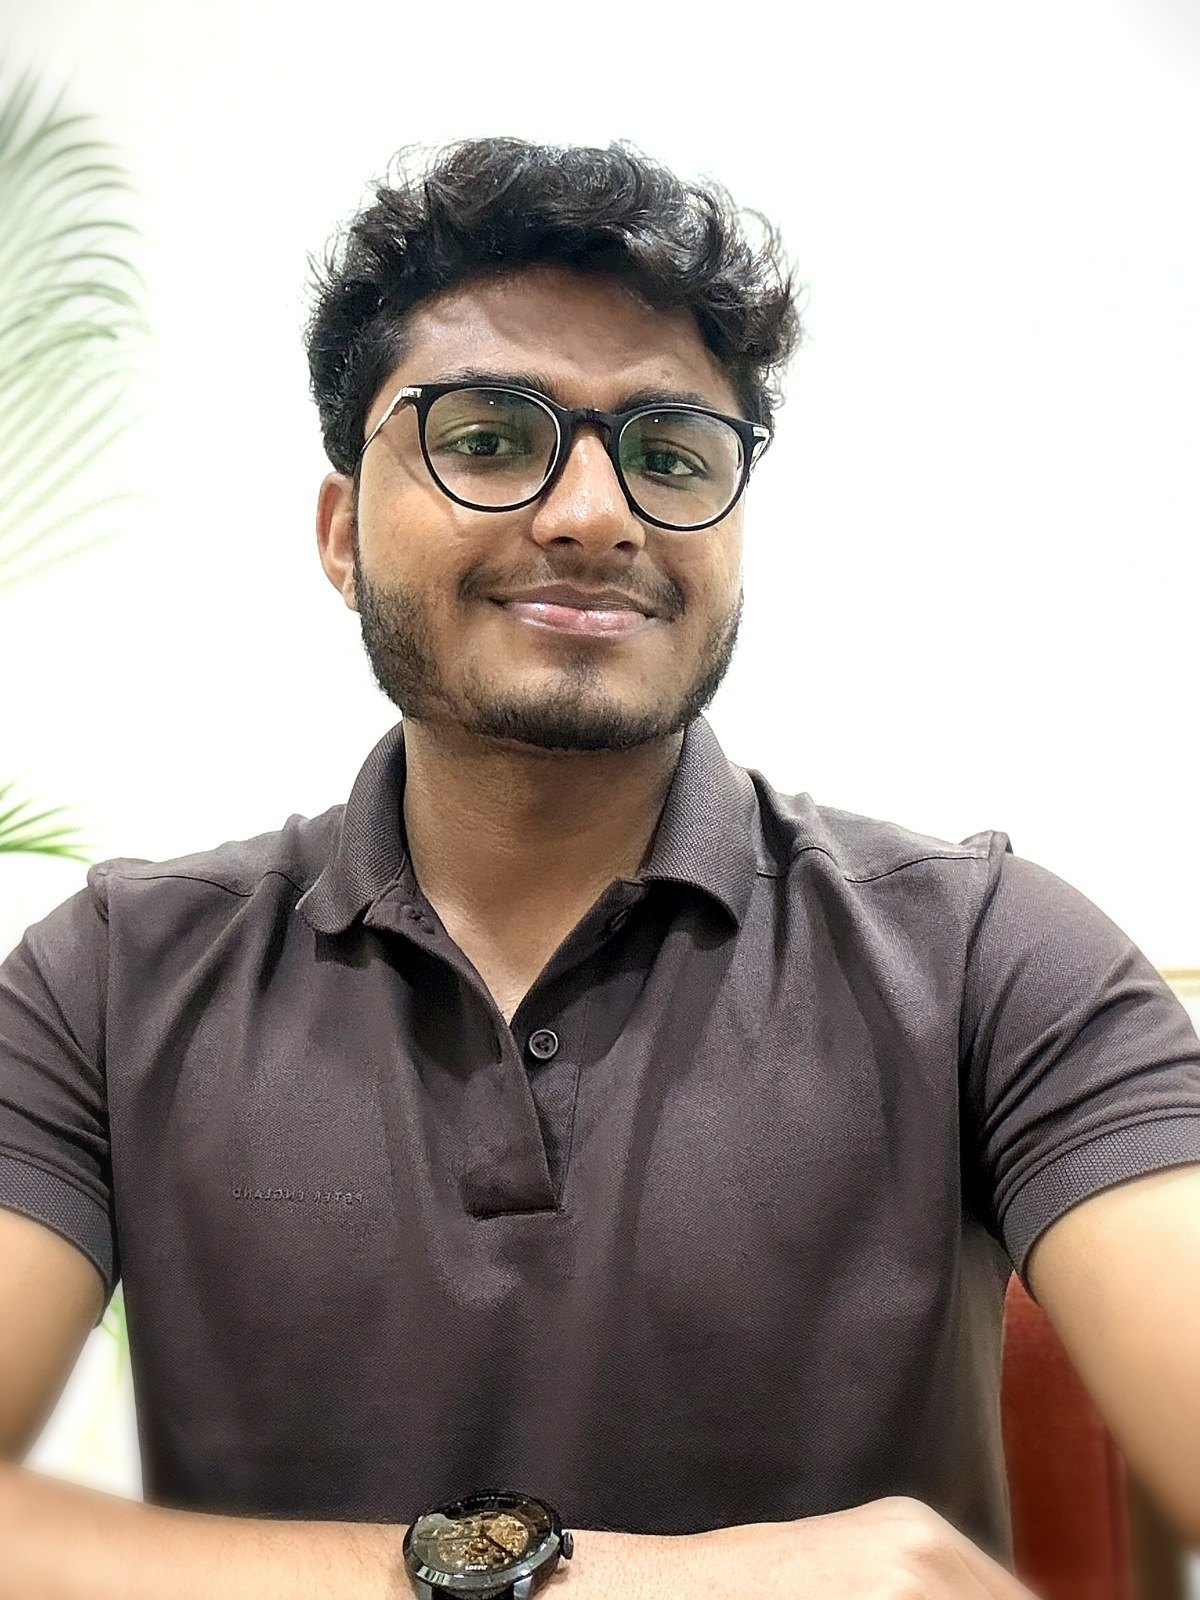
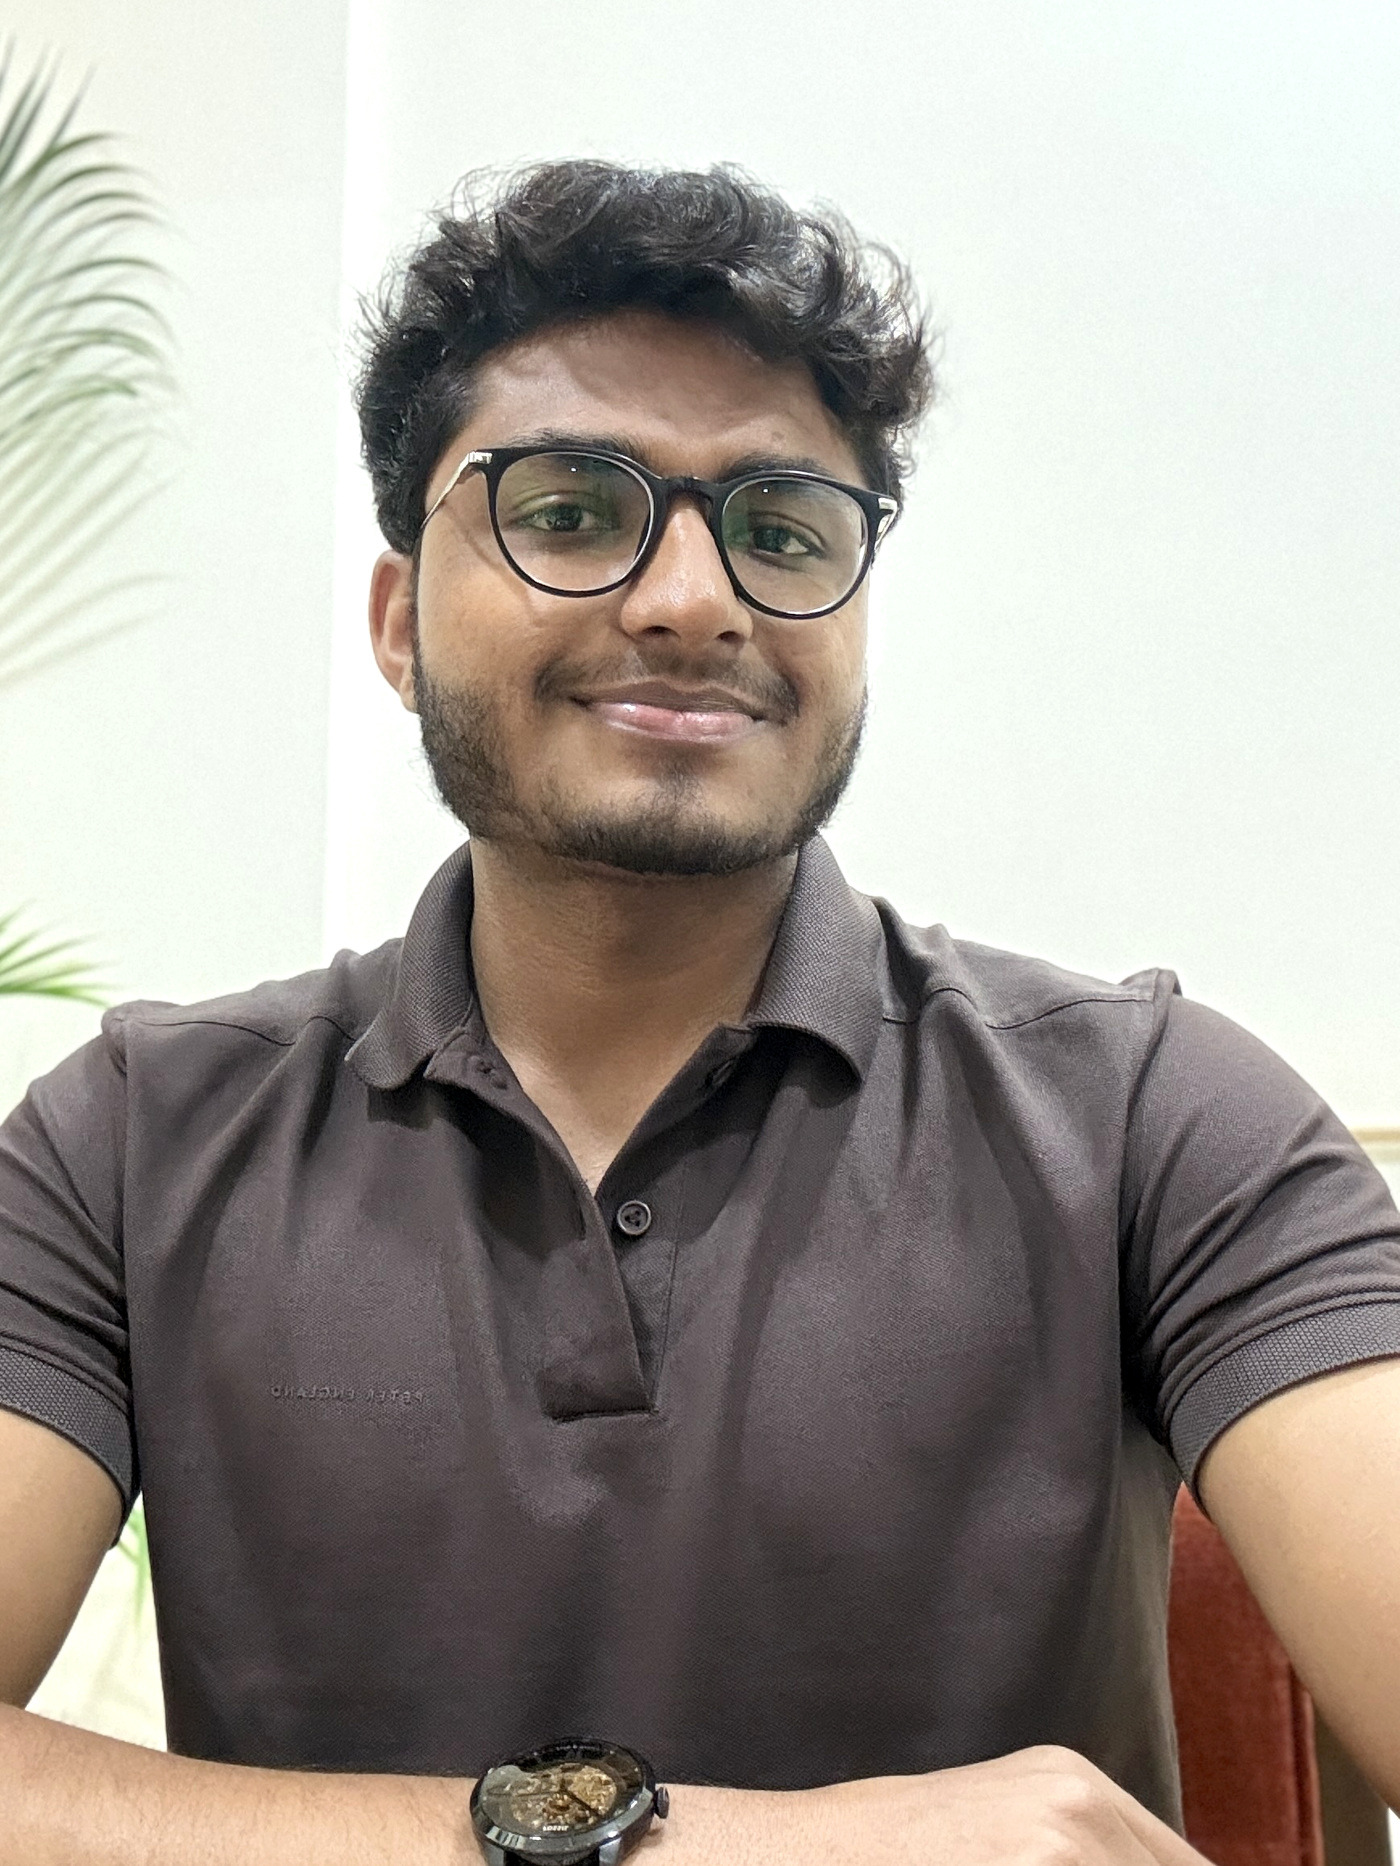
Reprocess coach photo: drop the heavy blur/vignette/sharpening, higher resolution and quality

diff --git a/index.html b/index.html
@@ -2060,7 +2060,7 @@ src="https://www.facebook.com/tr?id=3144157445775942&ev=PageView&noscript=1"
             <div class="about-container">
                 <div class="about-photo">
                     <img loading="lazy" decoding="async" src="wp-content/uploads/coach/rushikesh.jpg"
-                         alt="Rushikesh Umbarkar — certified nutritionist, Miracle Veda" width="1200" height="1600">
+                         alt="Rushikesh Umbarkar — certified nutritionist, Miracle Veda" width="1400" height="1866">
                 </div>
                 
                 <div class="about-content">
